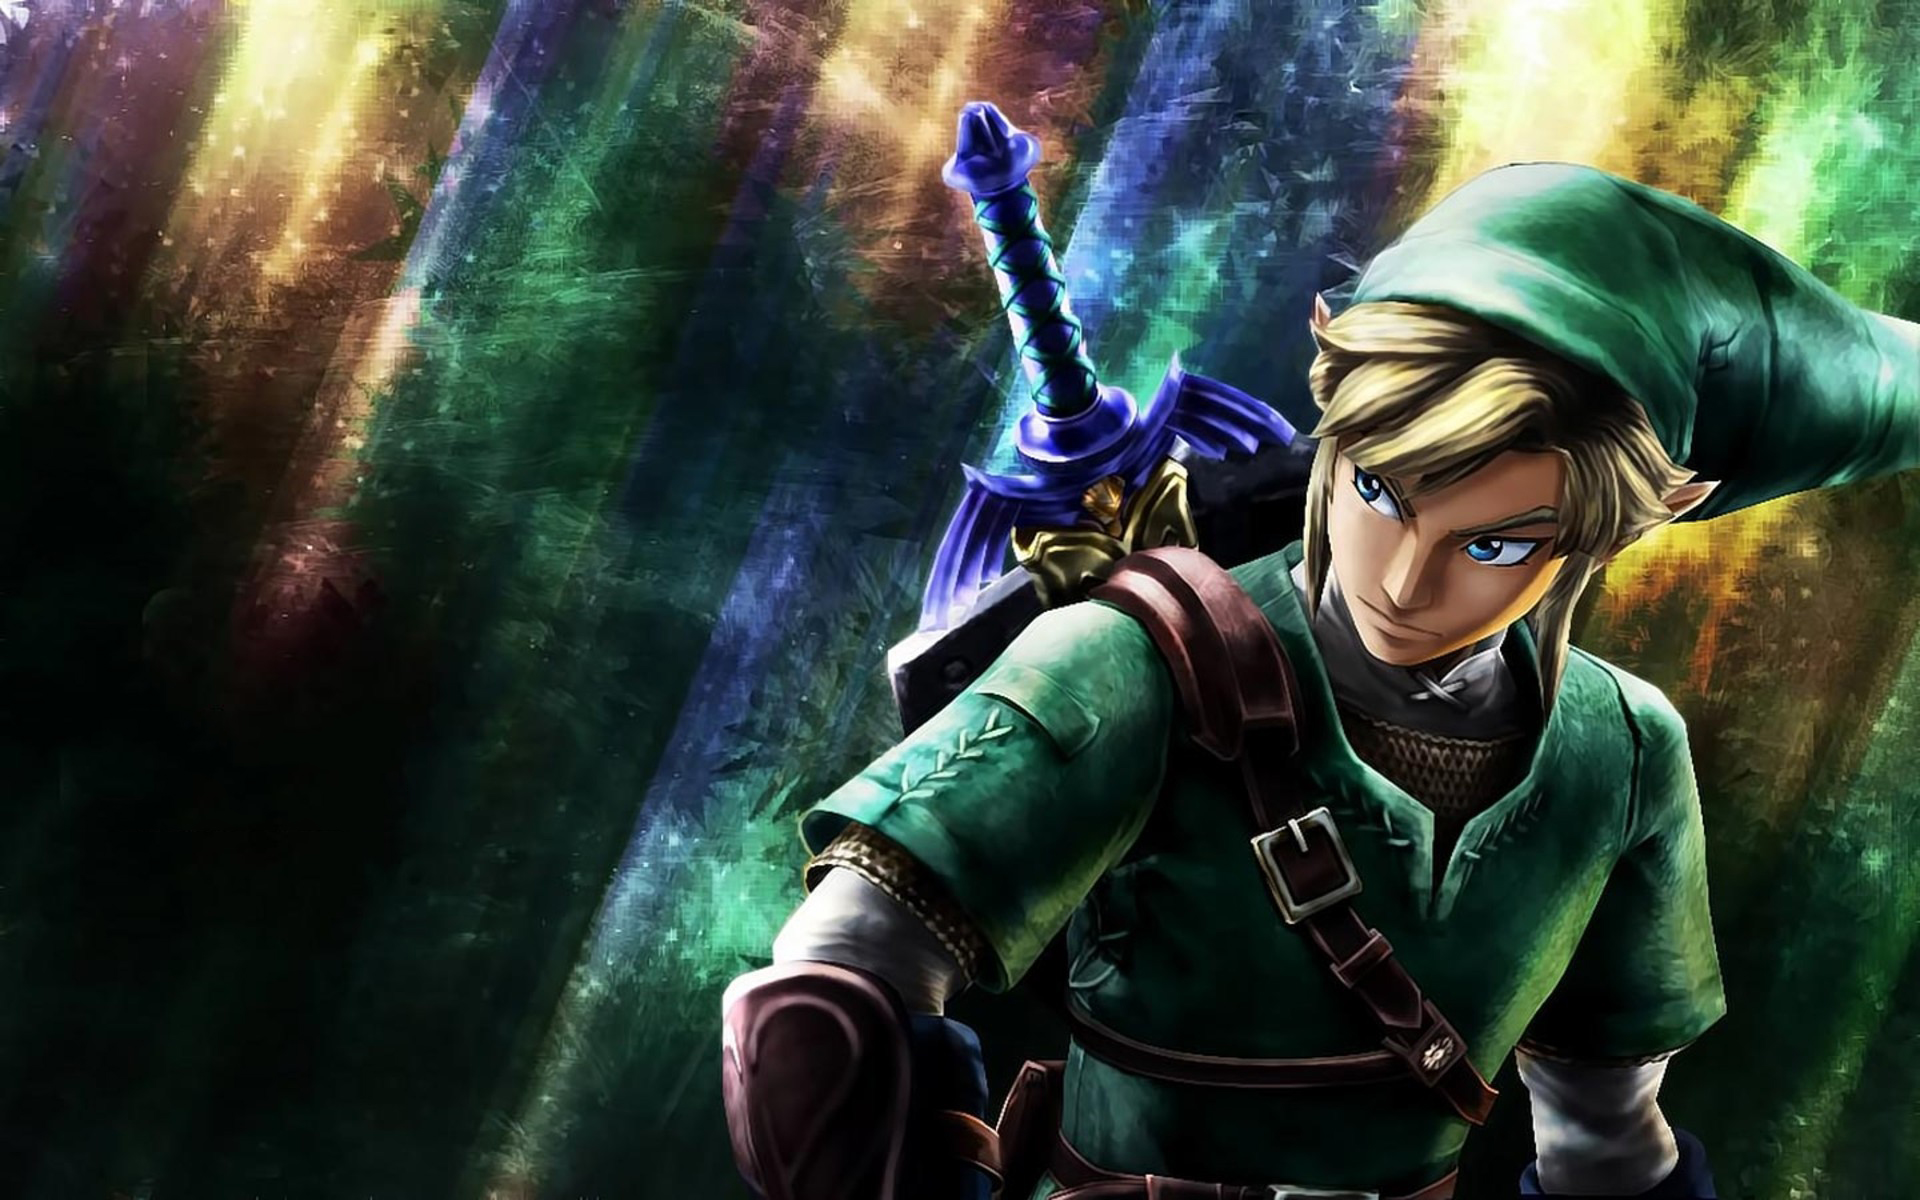
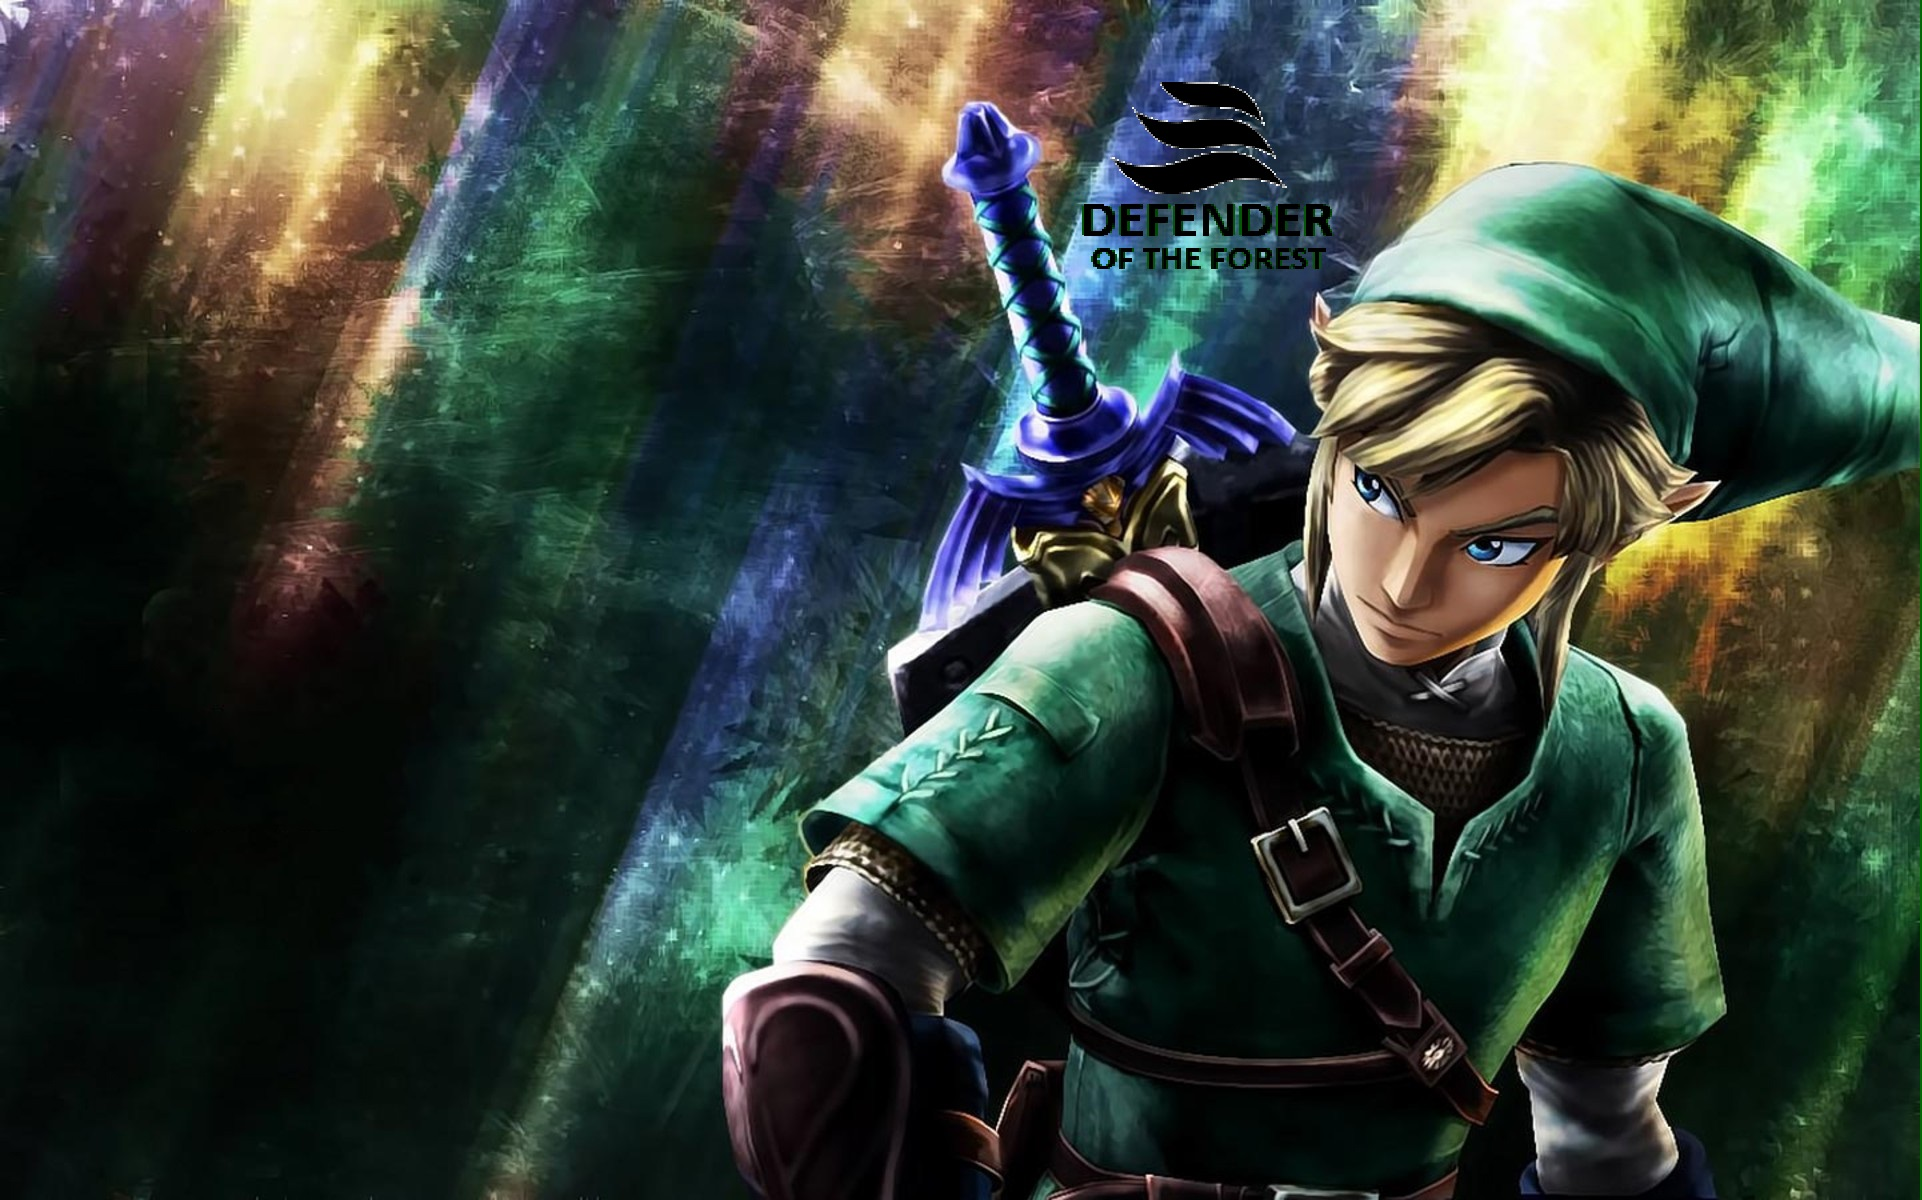
Логотип

diff --git a/main.py b/main.py
@@ -292,7 +292,7 @@ class Opponents(pygame.sprite.Sprite):
         self.mask = pygame.mask.from_surface(self.image)
         self.hit_point = 2.5
         self.eat_sing = pygame.mixer.Sound('Sing\eat.wav')
-        self.eat_sing.set_volume(0.4)ццццц
+        self.eat_sing.set_volume(0.4)
         self.died_sing = pygame.mixer.Sound('Sing\/died.wav')
 
         self.dict_go_hero = {
@@ -686,7 +686,7 @@ def life_point(screen, hit_point):
 def game(level):
     pygame.init()
     screen = pygame.display.set_mode((WIDTH, HEIGHT))
-    pygame.display.set_caption("Перемещение героя. Новый уровень")
+    pygame.display.set_caption("DEFENDER OF THE FOREST")
     start_game(screen)
     pygame.mixer.music.load('Sing\Led_Zeppelin_-_Immigrant_Song_Thor_Ragnarok-_soundtrack_62699723.mp3')
     pygame.mixer.music.set_volume(0.025)
